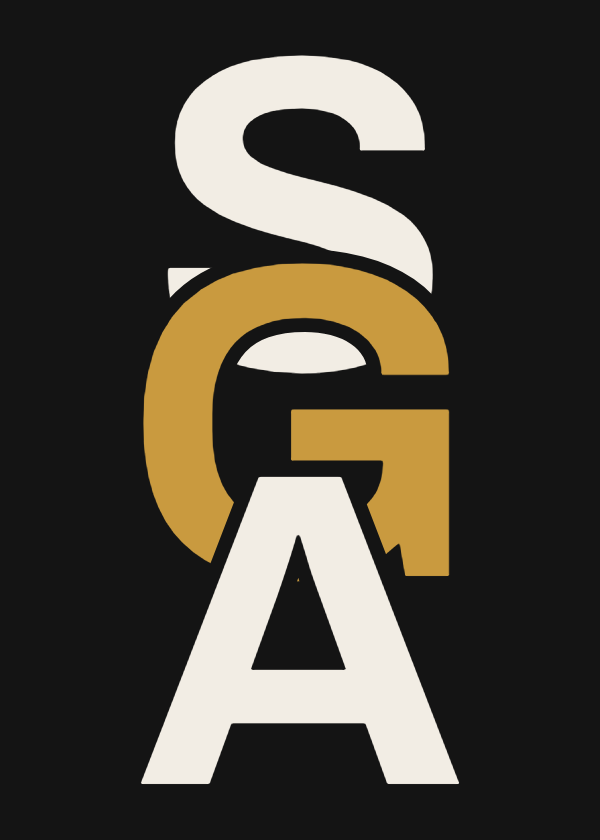
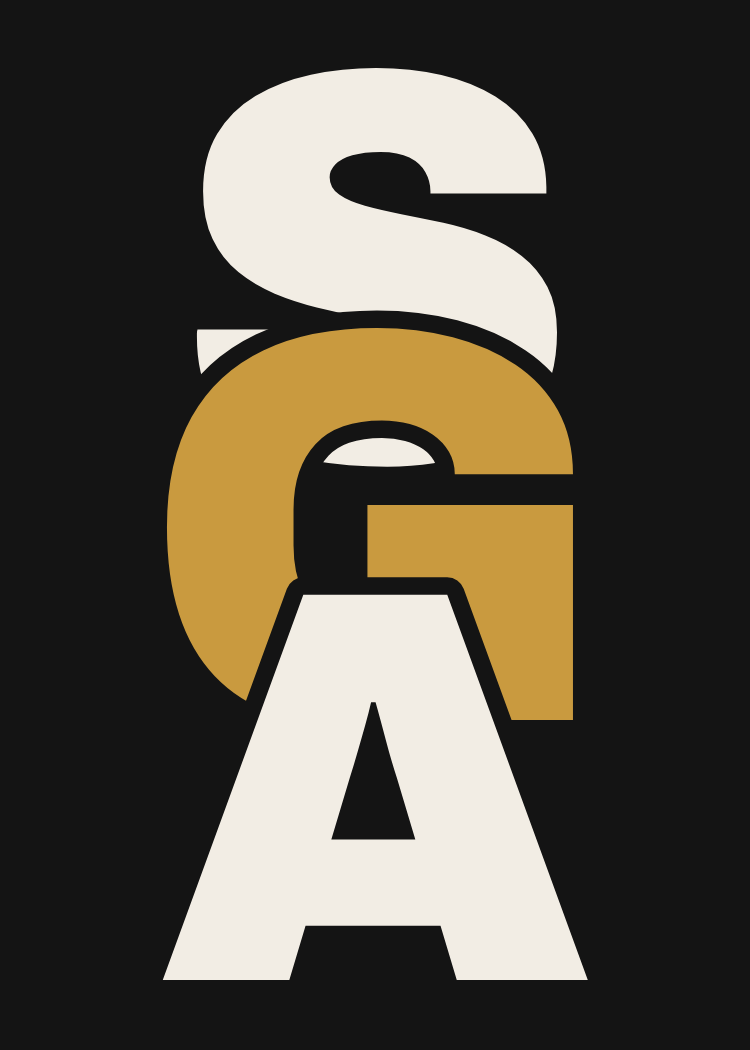
Monograma: cargar Archivo 900 real + replicar en todas las paginas + afinar halo

diff --git a/autodiagnostico.html b/autodiagnostico.html
@@ -9,7 +9,7 @@
 <link rel="icon" href="/favicon.svg" type="image/svg+xml">
 <link rel="preconnect" href="https://fonts.googleapis.com">
 <link rel="preconnect" href="https://fonts.gstatic.com" crossorigin>
-<link href="https://fonts.googleapis.com/css2?family=Archivo:wght@500;600;700&family=Inter:wght@400;500&family=JetBrains+Mono:wght@400;500&display=swap" rel="stylesheet">
+<link href="https://fonts.googleapis.com/css2?family=Archivo:wght@500;600;700;800;900&family=Inter:wght@400;500&family=JetBrains+Mono:wght@400;500&display=swap" rel="stylesheet">
 <link rel="stylesheet" href="/assets/css/styles.css">
 <style>
   .diag-shell { min-height: 100vh; display: flex; flex-direction: column; }
@@ -71,7 +71,7 @@
   <header class="site-header">
     <div class="wrap">
       <a class="brand" href="/" aria-label="Sergio Giraldo — inicio">
-        <span class="dots" aria-hidden="true"><span></span><span></span><span></span><span></span></span>
+        <span class="mono-mark mono-mark--sm" aria-hidden="true"><span class="m-s">S</span><span class="m-g">G</span><span class="m-a">A</span></span>
         <span class="name">sergio giraldo</span>
       </a>
       <nav class="nav-links" aria-label="Navegación principal">

diff --git a/gracias.html b/gracias.html
@@ -8,7 +8,7 @@
 <link rel="icon" href="/favicon.svg" type="image/svg+xml">
 <link rel="preconnect" href="https://fonts.googleapis.com">
 <link rel="preconnect" href="https://fonts.gstatic.com" crossorigin>
-<link href="https://fonts.googleapis.com/css2?family=Archivo:wght@500;600;700&family=Inter:wght@400;500&family=JetBrains+Mono:wght@400;500&display=swap" rel="stylesheet">
+<link href="https://fonts.googleapis.com/css2?family=Archivo:wght@500;600;700;800;900&family=Inter:wght@400;500&family=JetBrains+Mono:wght@400;500&display=swap" rel="stylesheet">
 <link rel="stylesheet" href="/assets/css/styles.css">
 </head>
 <body>
@@ -16,7 +16,7 @@
 <header class="site-header">
   <div class="wrap">
     <a class="brand" href="/" aria-label="Sergio Giraldo — inicio">
-      <span class="dots" aria-hidden="true"><span></span><span></span><span></span><span></span></span>
+      <span class="mono-mark mono-mark--sm" aria-hidden="true"><span class="m-s">S</span><span class="m-g">G</span><span class="m-a">A</span></span>
       <span class="name">sergio giraldo</span>
     </a>
   </div>

diff --git a/manifiesto.html b/manifiesto.html
@@ -8,7 +8,7 @@
 <link rel="icon" href="/favicon.svg" type="image/svg+xml">
 <link rel="preconnect" href="https://fonts.googleapis.com">
 <link rel="preconnect" href="https://fonts.gstatic.com" crossorigin>
-<link href="https://fonts.googleapis.com/css2?family=Archivo:wght@500;600;700&family=Inter:wght@400;500&family=JetBrains+Mono:wght@400;500&display=swap" rel="stylesheet">
+<link href="https://fonts.googleapis.com/css2?family=Archivo:wght@500;600;700;800;900&family=Inter:wght@400;500&family=JetBrains+Mono:wght@400;500&display=swap" rel="stylesheet">
 <link rel="stylesheet" href="/assets/css/styles.css">
 </head>
 <body>
@@ -16,7 +16,7 @@
 <header class="site-header">
   <div class="wrap">
     <a class="brand" href="/" aria-label="Sergio Giraldo — inicio">
-      <span class="dots" aria-hidden="true"><span></span><span></span><span></span><span></span></span>
+      <span class="mono-mark mono-mark--sm" aria-hidden="true"><span class="m-s">S</span><span class="m-g">G</span><span class="m-a">A</span></span>
       <span class="name">sergio giraldo</span>
     </a>
     <nav class="nav-links" aria-label="Navegación principal">

diff --git a/privacidad.html b/privacidad.html
@@ -8,7 +8,7 @@
 <link rel="icon" href="/favicon.svg" type="image/svg+xml">
 <link rel="preconnect" href="https://fonts.googleapis.com">
 <link rel="preconnect" href="https://fonts.gstatic.com" crossorigin>
-<link href="https://fonts.googleapis.com/css2?family=Archivo:wght@500;600;700&family=Inter:wght@400;500&family=JetBrains+Mono:wght@400;500&display=swap" rel="stylesheet">
+<link href="https://fonts.googleapis.com/css2?family=Archivo:wght@500;600;700;800;900&family=Inter:wght@400;500&family=JetBrains+Mono:wght@400;500&display=swap" rel="stylesheet">
 <link rel="stylesheet" href="/assets/css/styles.css">
 </head>
 <body>
@@ -16,7 +16,7 @@
 <header class="site-header">
   <div class="wrap">
     <a class="brand" href="/" aria-label="Sergio Giraldo — inicio">
-      <span class="dots" aria-hidden="true"><span></span><span></span><span></span><span></span></span>
+      <span class="mono-mark mono-mark--sm" aria-hidden="true"><span class="m-s">S</span><span class="m-g">G</span><span class="m-a">A</span></span>
       <span class="name">sergio giraldo</span>
     </a>
   </div>

diff --git a/tratamiento-de-datos.html b/tratamiento-de-datos.html
@@ -8,7 +8,7 @@
 <link rel="icon" href="/favicon.svg" type="image/svg+xml">
 <link rel="preconnect" href="https://fonts.googleapis.com">
 <link rel="preconnect" href="https://fonts.gstatic.com" crossorigin>
-<link href="https://fonts.googleapis.com/css2?family=Archivo:wght@500;600;700&family=Inter:wght@400;500&family=JetBrains+Mono:wght@400;500&display=swap" rel="stylesheet">
+<link href="https://fonts.googleapis.com/css2?family=Archivo:wght@500;600;700;800;900&family=Inter:wght@400;500&family=JetBrains+Mono:wght@400;500&display=swap" rel="stylesheet">
 <link rel="stylesheet" href="/assets/css/styles.css">
 </head>
 <body>
@@ -16,7 +16,7 @@
 <header class="site-header">
   <div class="wrap">
     <a class="brand" href="/" aria-label="Sergio Giraldo — inicio">
-      <span class="dots" aria-hidden="true"><span></span><span></span><span></span><span></span></span>
+      <span class="mono-mark mono-mark--sm" aria-hidden="true"><span class="m-s">S</span><span class="m-g">G</span><span class="m-a">A</span></span>
       <span class="name">sergio giraldo</span>
     </a>
   </div>

diff --git a/assets/css/styles.css b/assets/css/styles.css
@@ -85,7 +85,7 @@ h1, h2, h3 {
 /* Tamaño header (compacto). Solapamiento ~1/3 (como la muestra aprobada):
    el offset entre letras ≈ 0.46 del tamaño de fuente, para que la S y la G se vean. */
 .mono-mark--sm { width: 24px; height: 50px; }
-.mono-mark--sm span { font-size: 26px; -webkit-text-stroke-width: 3.5px; }
+.mono-mark--sm span { font-size: 26px; -webkit-text-stroke-width: 2px; }
 .mono-mark--sm .m-s { top: 0; }
 .mono-mark--sm .m-g { top: 12px; }
 .mono-mark--sm .m-a { top: 24px; }

diff --git a/index.html b/index.html
@@ -17,7 +17,7 @@
 <link rel="icon" href="/favicon.svg" type="image/svg+xml">
 <link rel="preconnect" href="https://fonts.googleapis.com">
 <link rel="preconnect" href="https://fonts.gstatic.com" crossorigin>
-<link href="https://fonts.googleapis.com/css2?family=Archivo:wght@500;600;700&family=Inter:wght@400;500&family=JetBrains+Mono:wght@400;500&display=swap" rel="stylesheet">
+<link href="https://fonts.googleapis.com/css2?family=Archivo:wght@500;600;700;800;900&family=Inter:wght@400;500&family=JetBrains+Mono:wght@400;500&display=swap" rel="stylesheet">
 <link rel="stylesheet" href="/assets/css/styles.css">
 </head>
 <body>